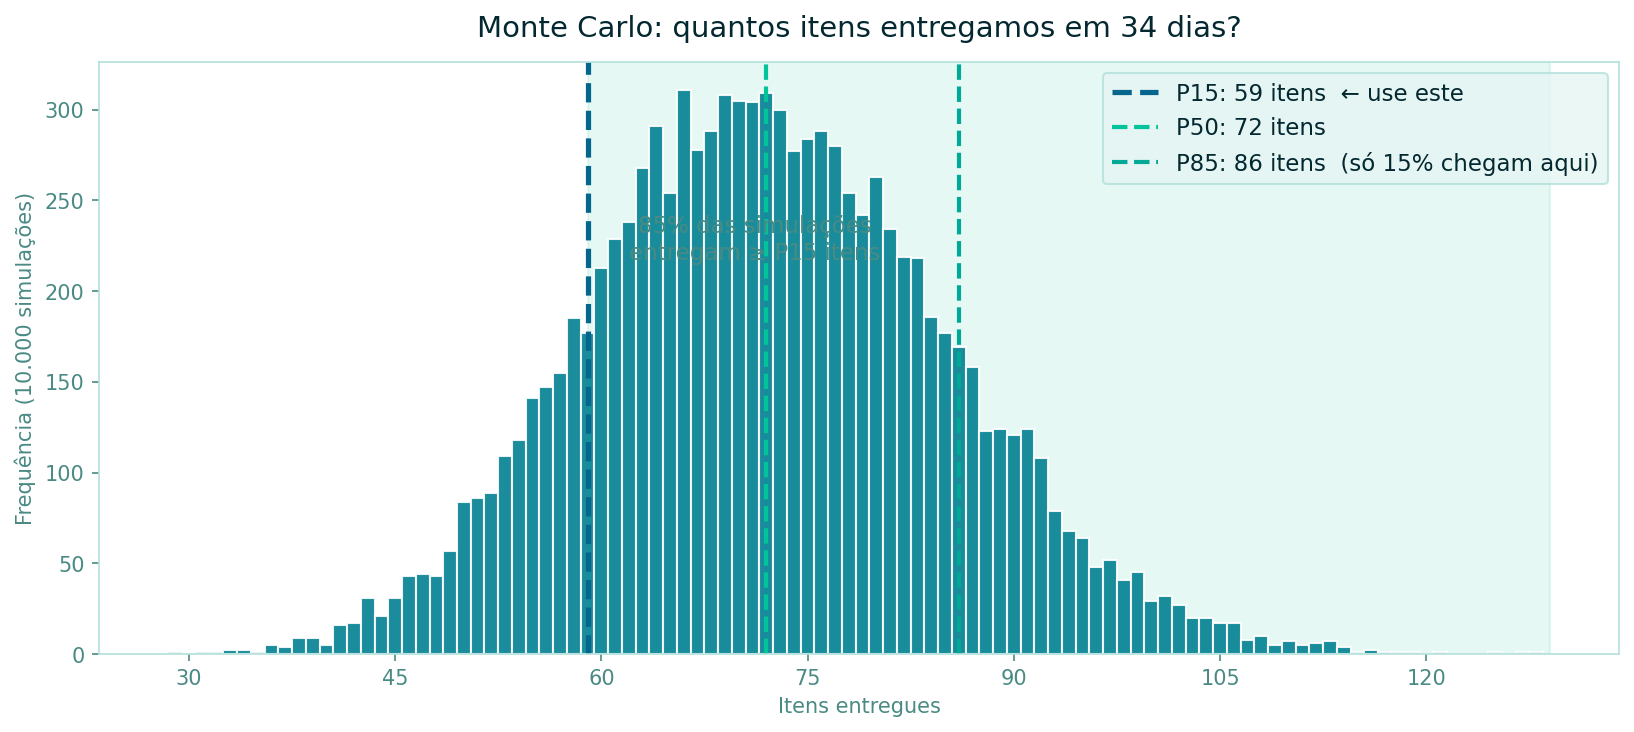
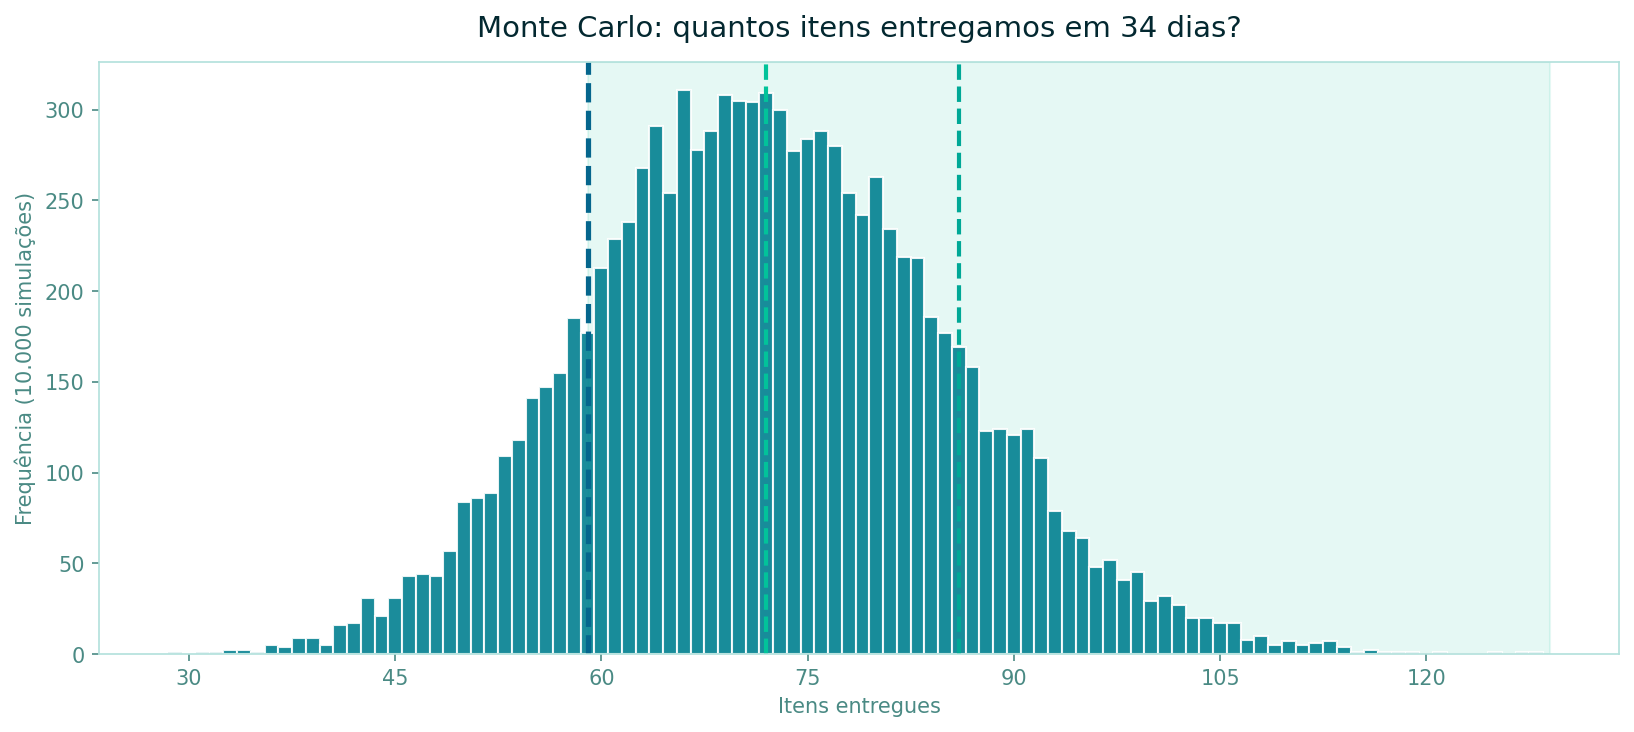
Remove legend from monte_carlo_itens chart

diff --git a/generate_charts.py b/generate_charts.py
@@ -292,13 +292,6 @@ def fig_normal_distribution_reference(
         linestyle="--",
         label=f"Média: {mean_days:.0f} dias",
     )
-    ax.axvline(
-        median_days,
-        color=RED,
-        linewidth=2.2,
-        linestyle=":",
-        label=f"Mediana: {median_days:.0f} dias",
-    )
     ax.axvspan(
         one_sigma_low,
         one_sigma_high,
@@ -1519,30 +1512,18 @@ def fig_monte_carlo_itens(
         color=MAIN,
         linewidth=2.5,
         linestyle="--",
-        label=f"P15: {p15:.0f} itens  ← use este",
     )
     ax.axvline(
         p50,
         color=GREEN,
         linewidth=2,
         linestyle="--",
-        label=f"P50: {p50:.0f} itens",
     )
     ax.axvline(
         p85,
         color=RED,
         linewidth=2,
         linestyle="--",
-        label=f"P85: {p85:.0f} itens  (só 15% chegam aqui)",
-    )
-
-    ax.annotate(
-        "85% das simulações\nentregam ≥ P15 itens",
-        xy=(p15 + (p85 - p15) * 0.45, ax.get_ylim()[1] * 0.7),
-        color=TEXT_MUTED,
-        fontsize=11,
-        ha="center",
-        va="center",
     )
 
     ax.set_title(
@@ -1555,7 +1536,6 @@ def fig_monte_carlo_itens(
     ax.set_ylabel("Frequência (10.000 simulações)", color=TEXT_MUTED)
     ax.xaxis.set_major_locator(mticker.MaxNLocator(integer=True))
     ax.tick_params(colors=TEXT_MUTED)
-    ax.legend(fontsize=11, facecolor=SURFACE, labelcolor=TEXT, edgecolor=GRID)
     for spine in ax.spines.values():
         spine.set_color(GRID)
 
